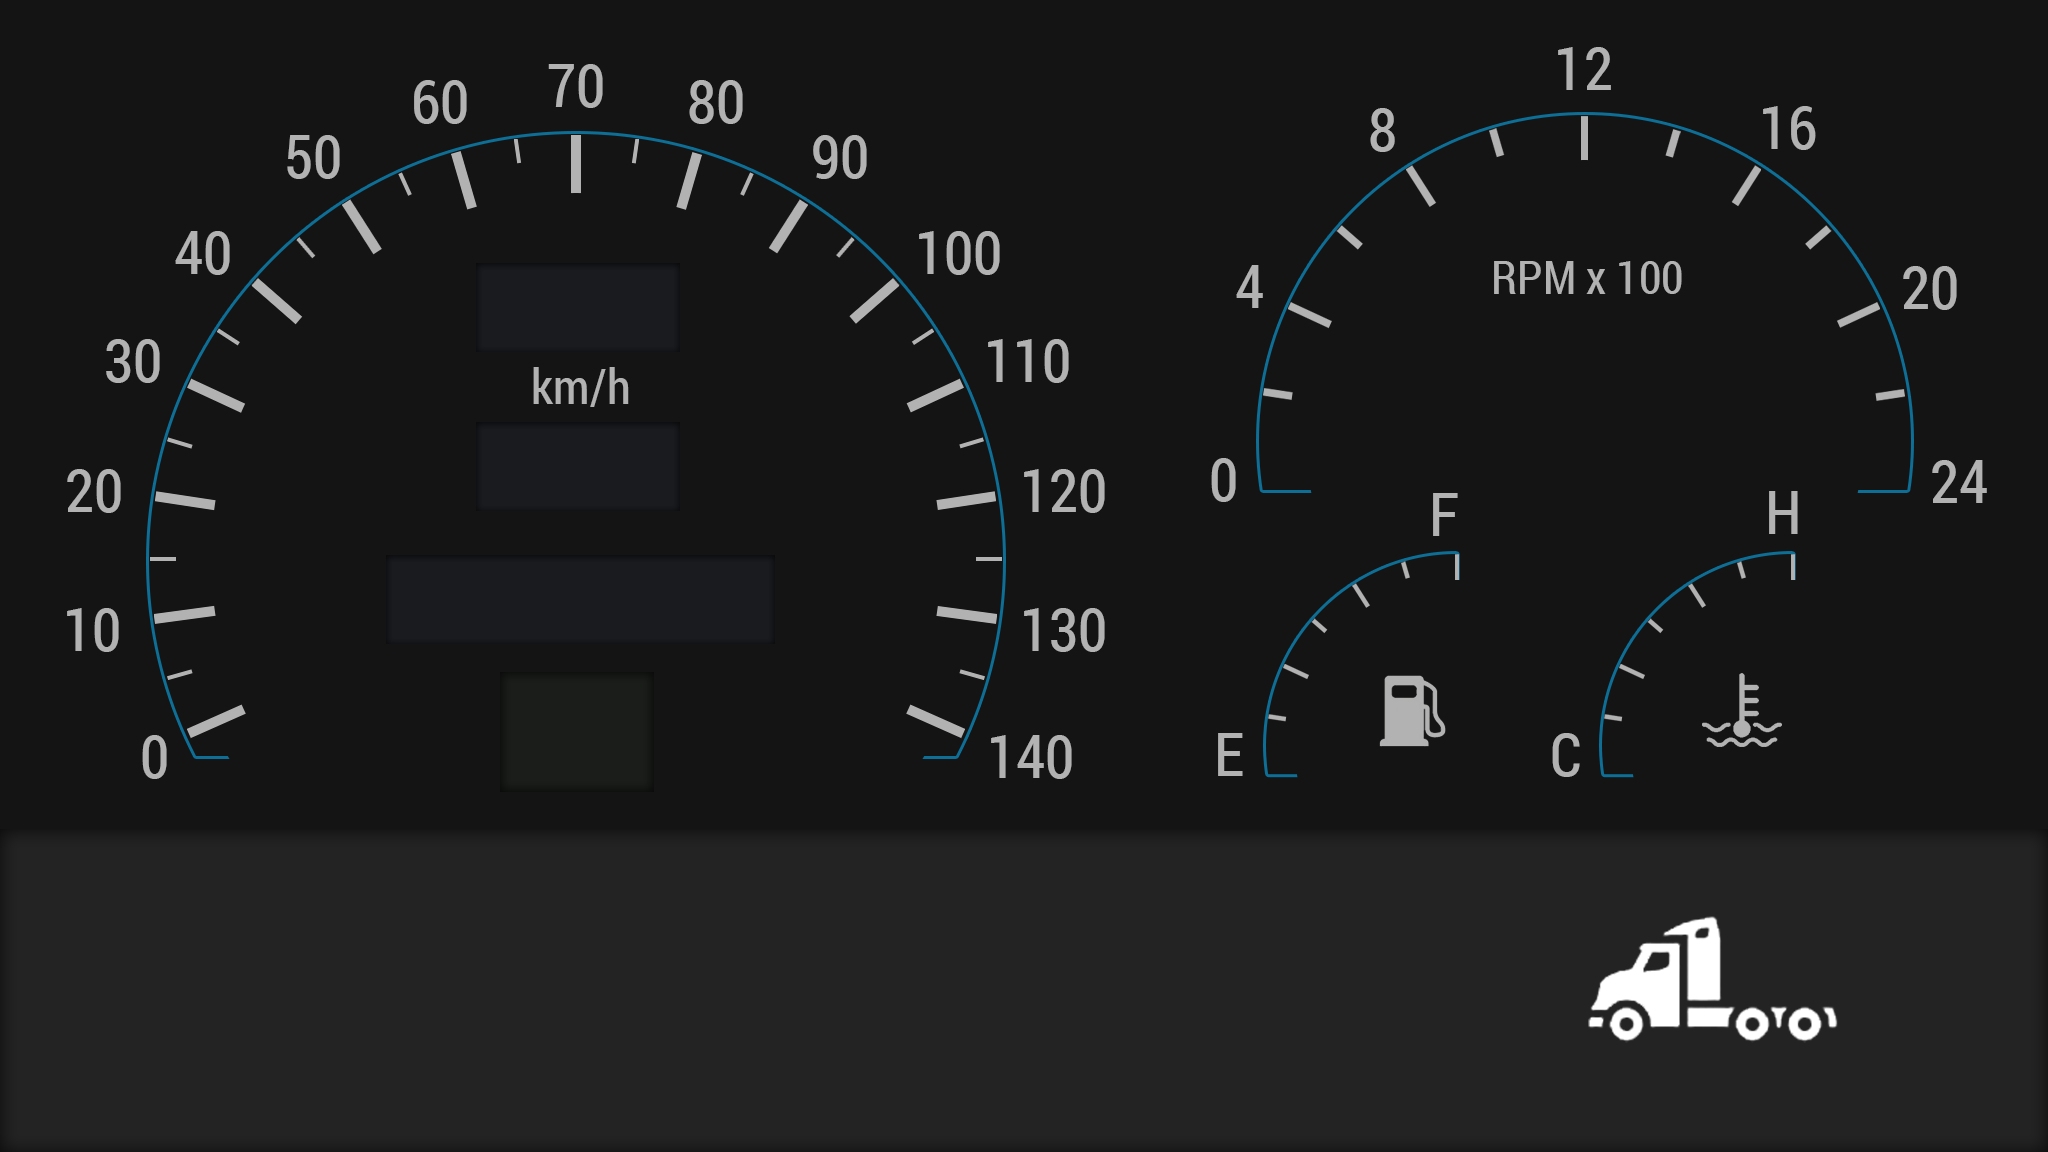
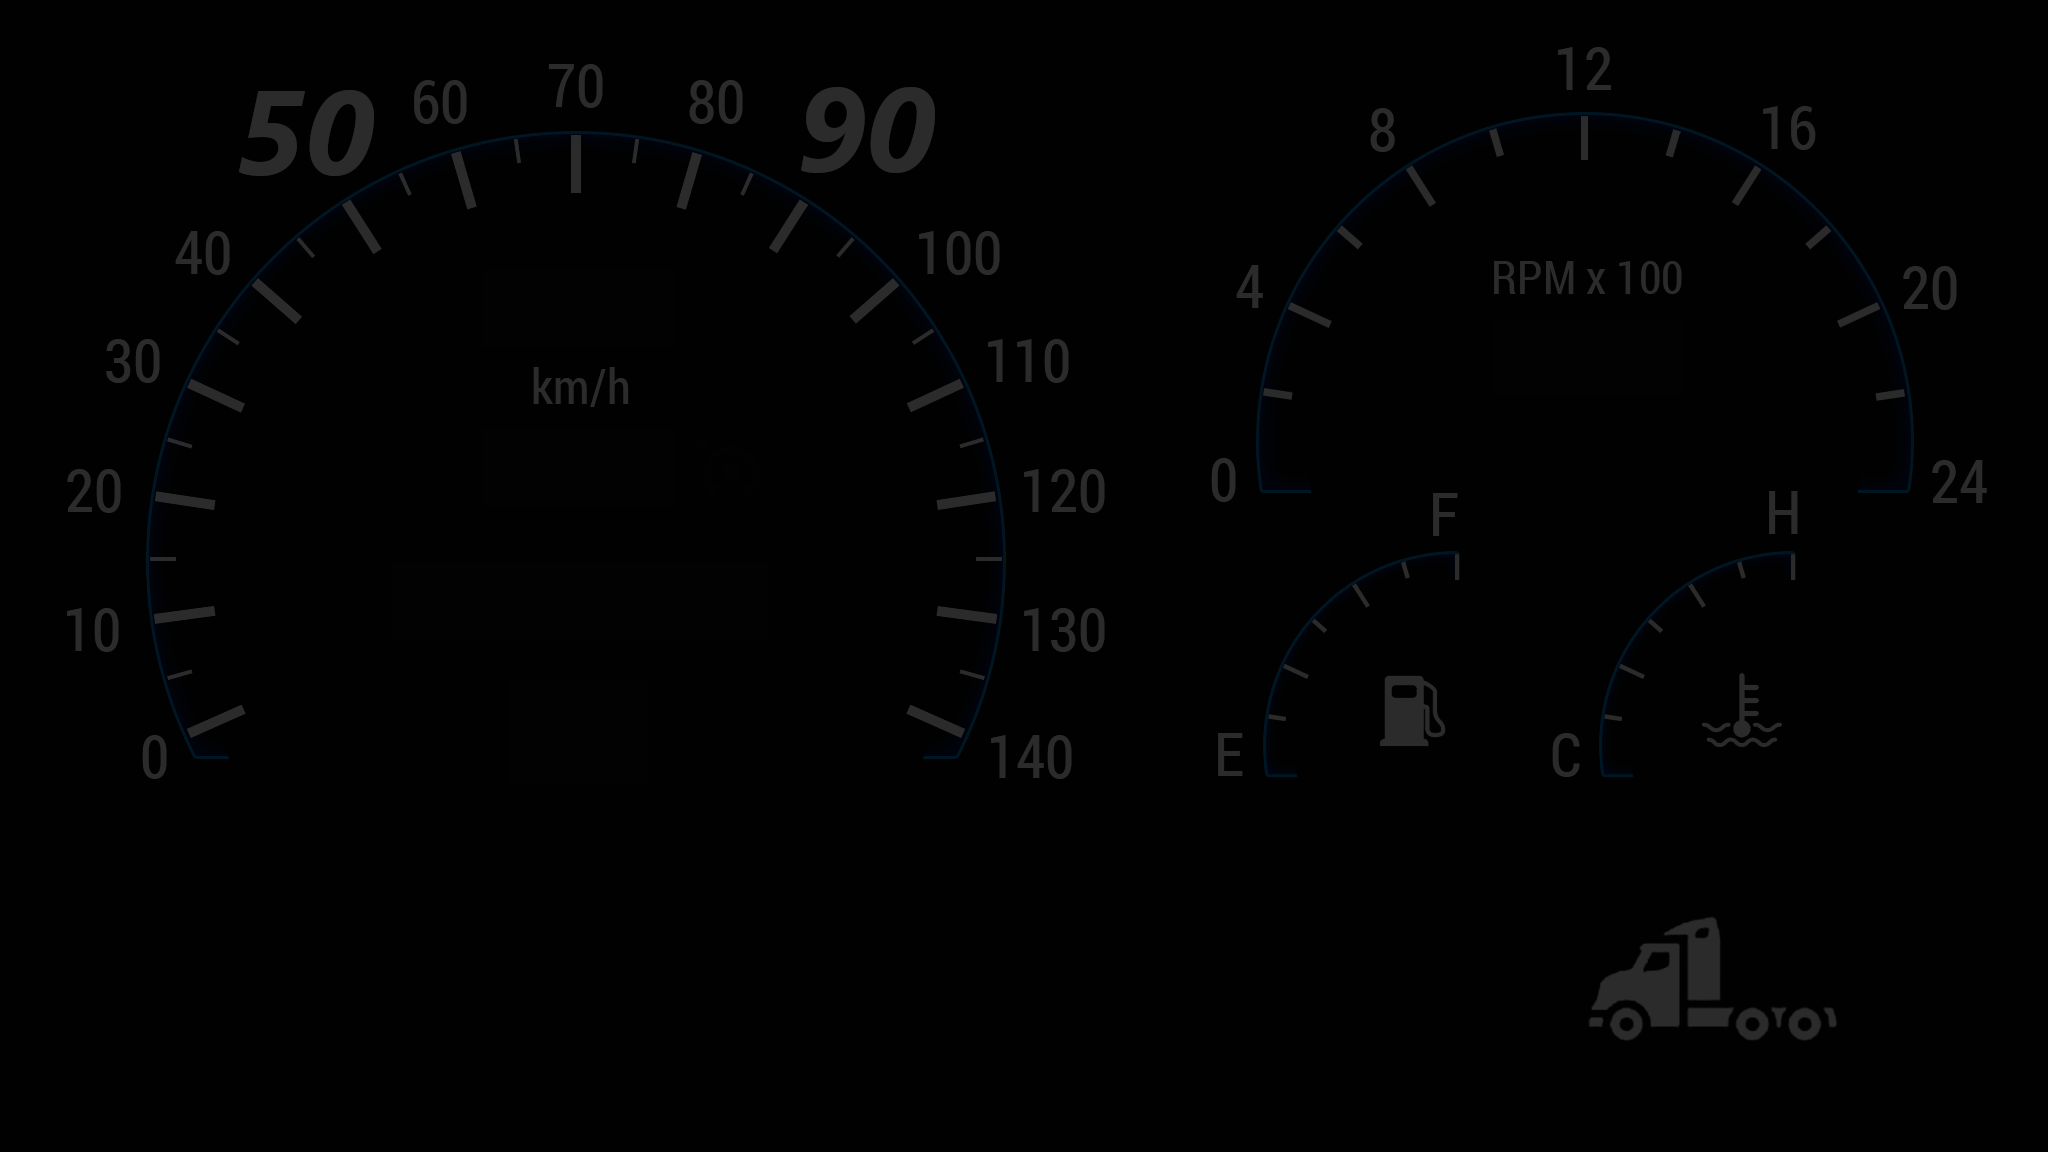
updated base graphics, increased meter pointer size

diff --git a/server/Html/skins/default-enhanced/dashboard.css b/server/Html/skins/default-enhanced/dashboard.css
@@ -41,7 +41,7 @@ body {
   position: absolute;
   left: 571px;
   top: 121px;
-  width: 10px;
+  width: 25px;
   height: 110px;
   background-color: #cd0000;
   -webkit-transform: rotate(-114deg);
@@ -59,7 +59,7 @@ body {
   position: absolute;
   left: 1580px;
   top: 105px;
-  width: 10px;
+  width: 25px;
   height: 110px;
   background-color: #cd0000;
   -webkit-transform: rotate(-97deg);
